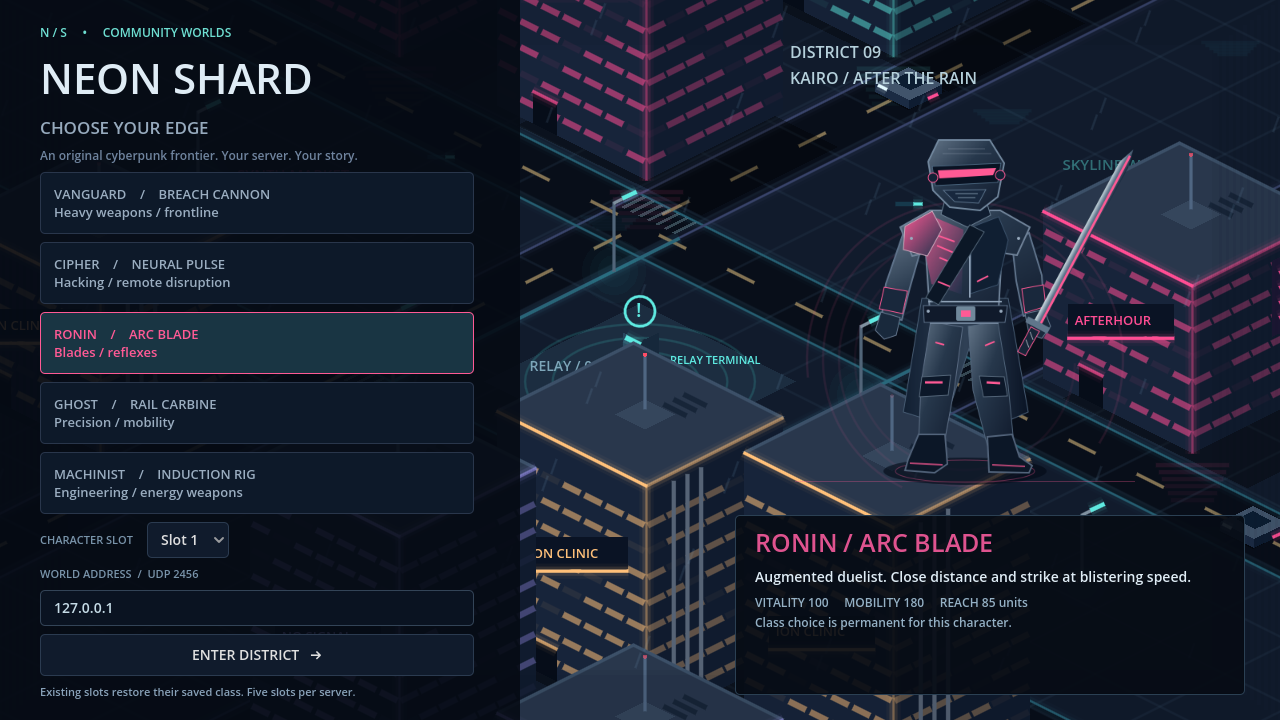
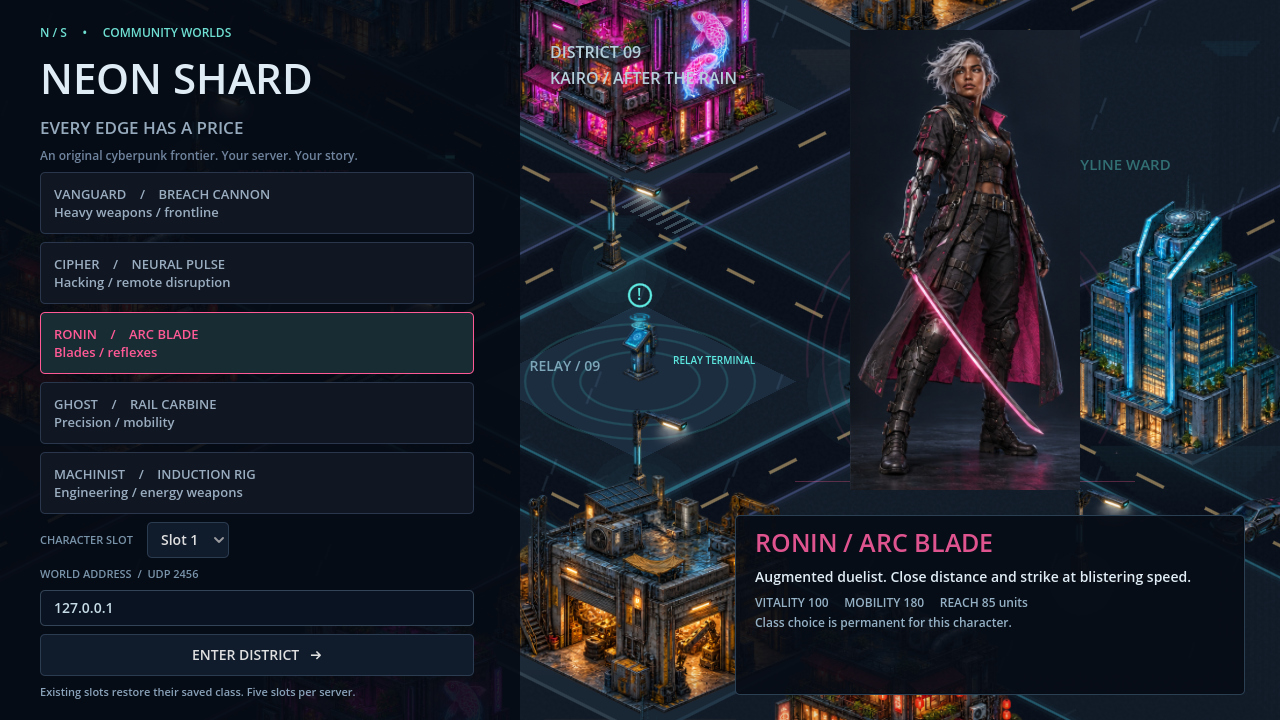
Show cinematic character and painterly city art pass

Changed region(s): [[0.4062, 0.0, 1.0, 1.0], [0.0312, 0.1528, 0.1875, 0.1833], [0.9688, 0.6722, 1.0, 0.7639]]

diff --git a/docs/screenshots/README.md b/docs/screenshots/README.md
@@ -1,21 +1,31 @@
-# Neon Shard visual preview
+# Neon Shard · art pass 2
 
-The first stylized art pass for Neon Shard, an original cyberpunk online game built in Godot.
+The playable Godot client now uses detailed painterly architecture, cinematic character portraits, and matching isometric character/prop sprites. These screenshots are **actual Godot renders** of a staged visual test scene, not standalone concept images or a live multiplayer session.
 
-## Character selection
+## Updated character selection
 
-Five original classes: Vanguard, Cipher, Ronin, Ghost, and Machinist, with five character slots per server.
+Five original classes: Vanguard, Cipher, Ronin, Ghost, and Machinist. Each server supports five character slots per player identity.
 
-![Character selection screen](character-selection.png)
+![Updated character selection](character-selection.png)
 
-[Open the full-size character selection image](character-selection.png)
+[Full size](character-selection.png)
 
-## City district
+## Updated city district
 
-Isometric neon buildings, storefronts, streetlights, rain, and the central relay terminal.
+Lantern-lit shops, glass towers, industrial workshops, neon nightlife, textured streets, rain, streetlights, and detailed drones and vehicles.
 
-![City district](city.png)
+![Updated city](city.png)
 
-[Open the full-size city image](city.png)
+[Full size](city.png) · [Effects reduced](city-low.png)
 
-These are actual Godot renders from a staged visual fixture, showing early artwork rather than a finished game or a live multiplayer session. This branch publishes the screenshots for review; the development project remains in the working environment.
+## All five classes
+
+[Vanguard](class-vanguard.png) · [Cipher](class-cipher.png) · [Ronin](class-ronin.png) · [Ghost](class-ghost.png) · [Machinist](class-machinist.png)
+
+## Compare the previous art pass
+
+[Previous character selection](character-selection-before.png) · [Previous city](city-before.png)
+
+This remains an early 2D game district. The artwork is generated and integrated as texture atlases; directional character animation, interiors, crowds, and a larger world remain future work. Networking, combat, character slots and restart persistence were separately verified by the integration test. These images are not a hardware performance benchmark.
+
+This preview branch publishes the gallery for review. The development project remains in the working environment.
